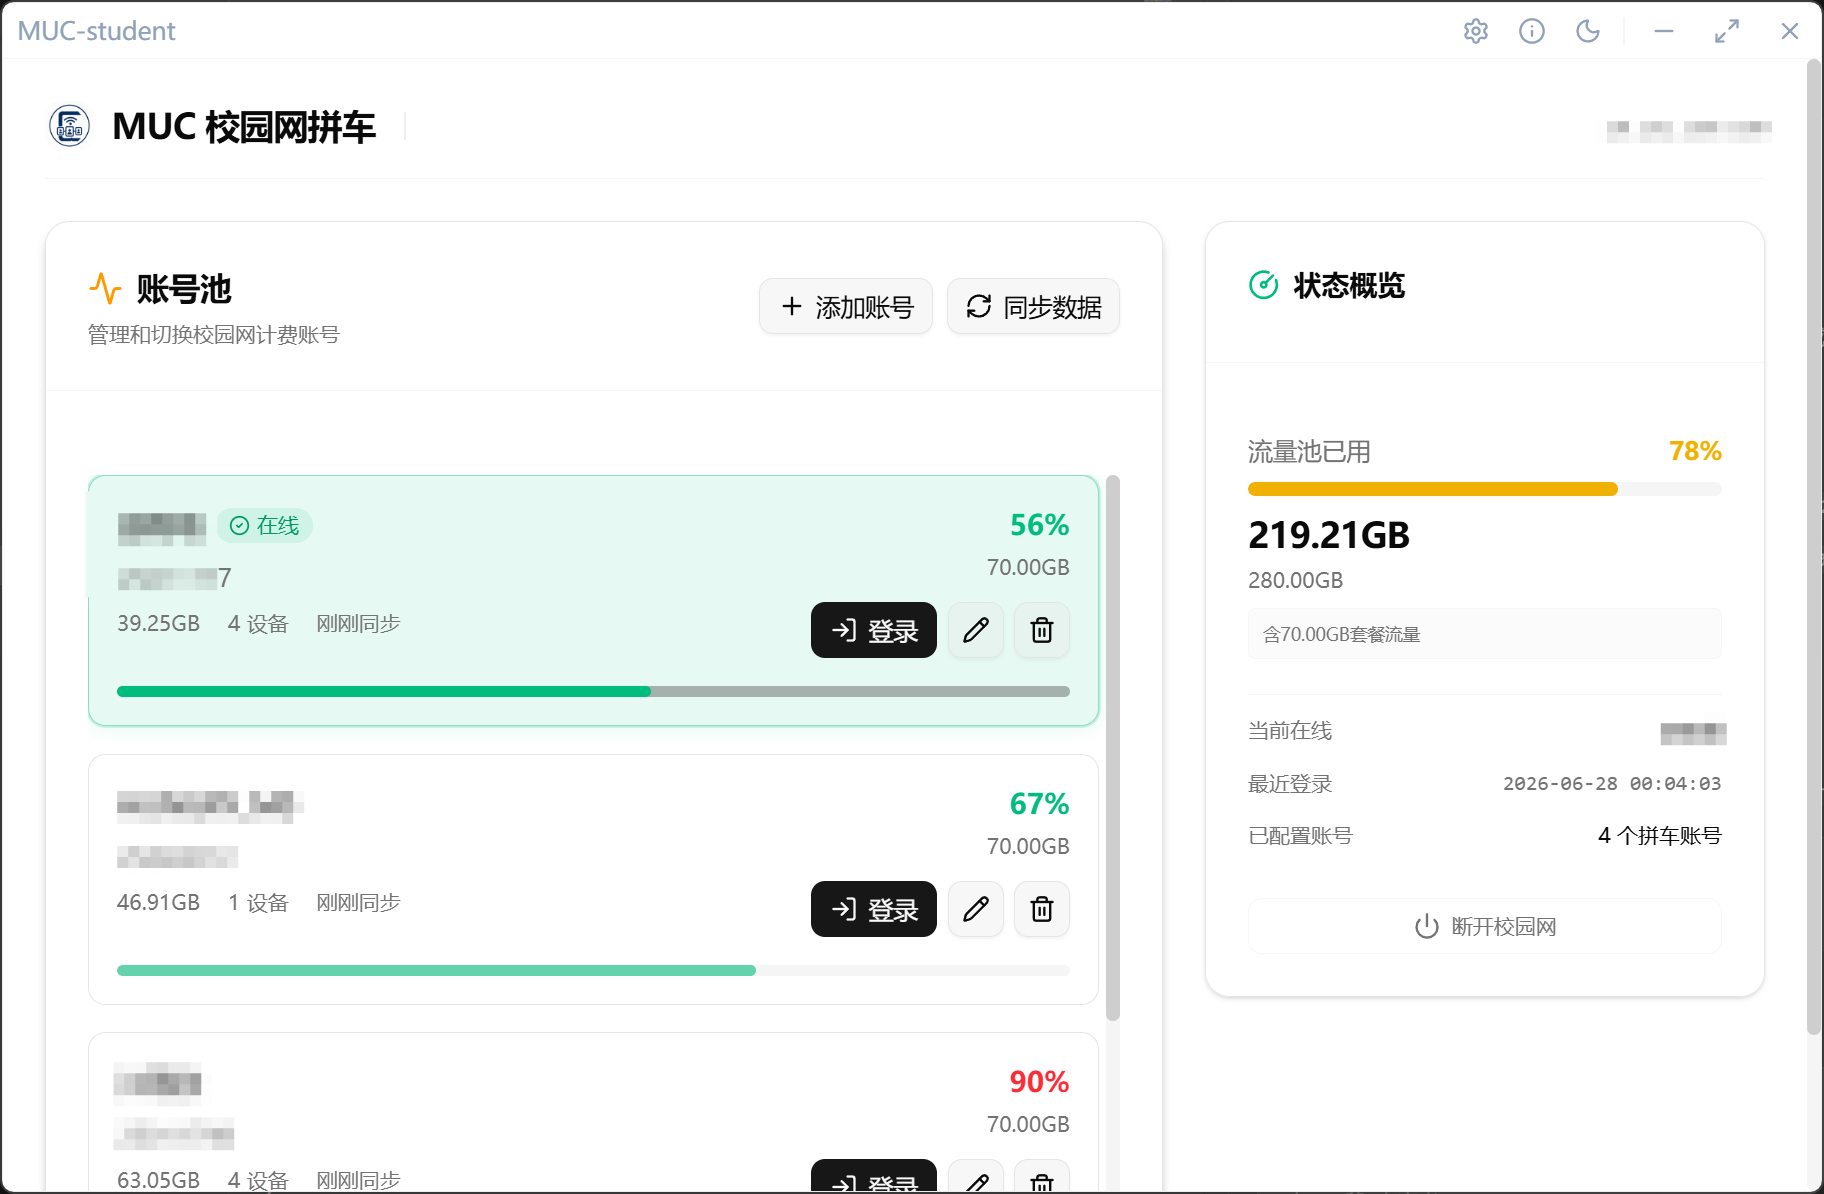
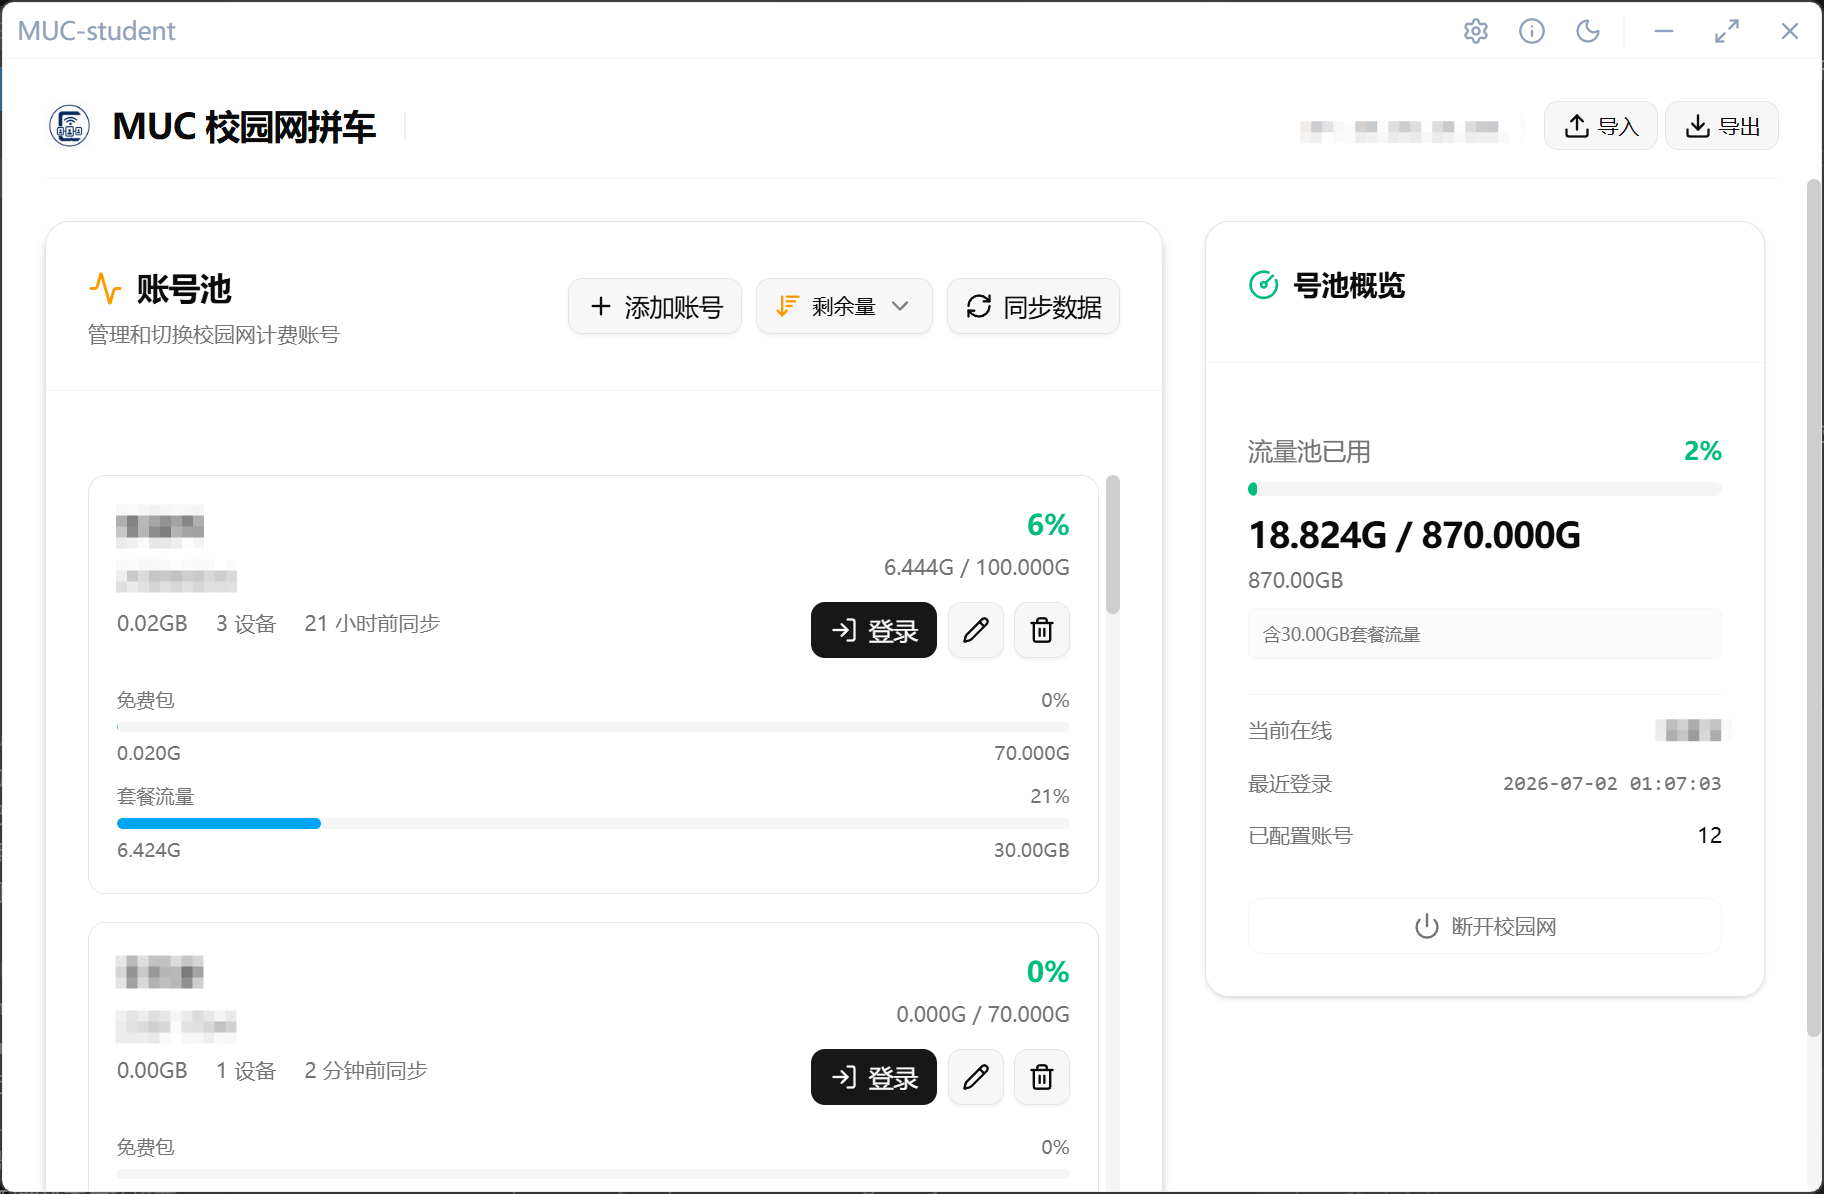
doc: 平台截图补充

diff --git a/README.md b/README.md
@@ -6,7 +6,6 @@
 ![Tauri](https://img.shields.io/badge/Tauri-4E2A8E?logo=tauri&logoColor=white)
 ![React](https://img.shields.io/badge/React-61DAFB?logo=react&logoColor=white)
 ![Vite](https://img.shields.io/badge/Vite-646CFF?logo=vite&logoColor=white)
-![TailwindCSS](https://img.shields.io/badge/TailwindCSS-38BDF8?logo=tailwind-css&logoColor=white)
 ![SQLite](https://img.shields.io/badge/SQLite-003B57?logo=sqlite&logoColor=white)
 
 > [!NOTE]
@@ -17,12 +16,19 @@
 
 ## 界面截图
 
-<img src="assets/screenshot.png" alt="界面截图" />
+| 平台 | 截图 |
+| --- | --- |
+| **Windows** | <img src="assets/screenshot.png" width="400" height="260" alt="界面截图" /> |
+| **Android** | <div align="center"><img src="assets/Android.jpg" width="130" height="260" alt="Android 界面截图" /></div> |
+
 
 ## 功能
 
 - 多账号添加、编辑、选择登录
-- 校园网自动认证、自动重试登录
+- 套餐与免费用量识别
+- 号池加密导入导出分发
 - 流量用尽后自动切号
+- 开机自启与托盘图标常驻
 - 流量配额汇总和账号配额展示
+- Android / Windows 跨平台支持
 
